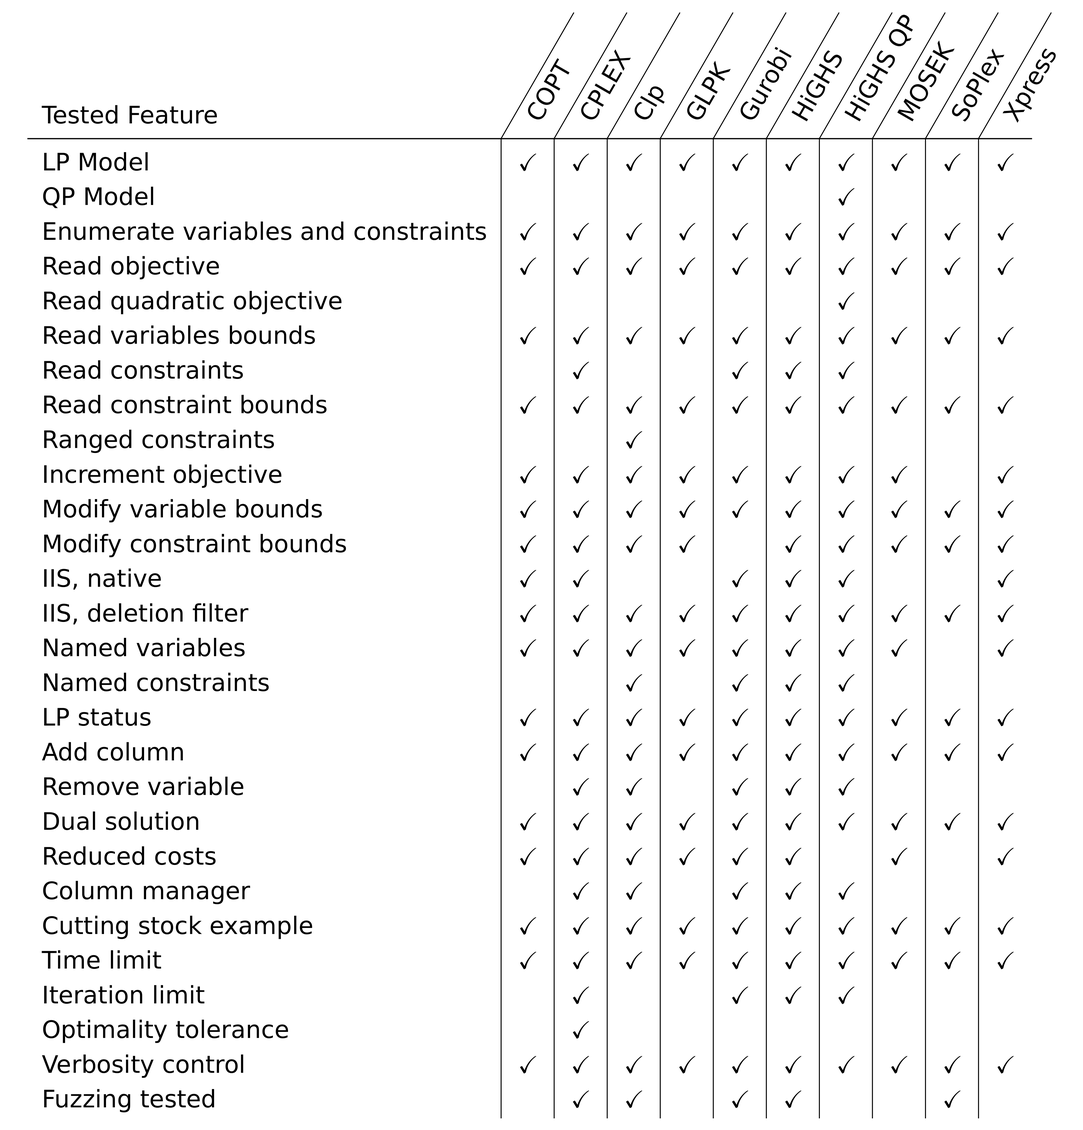
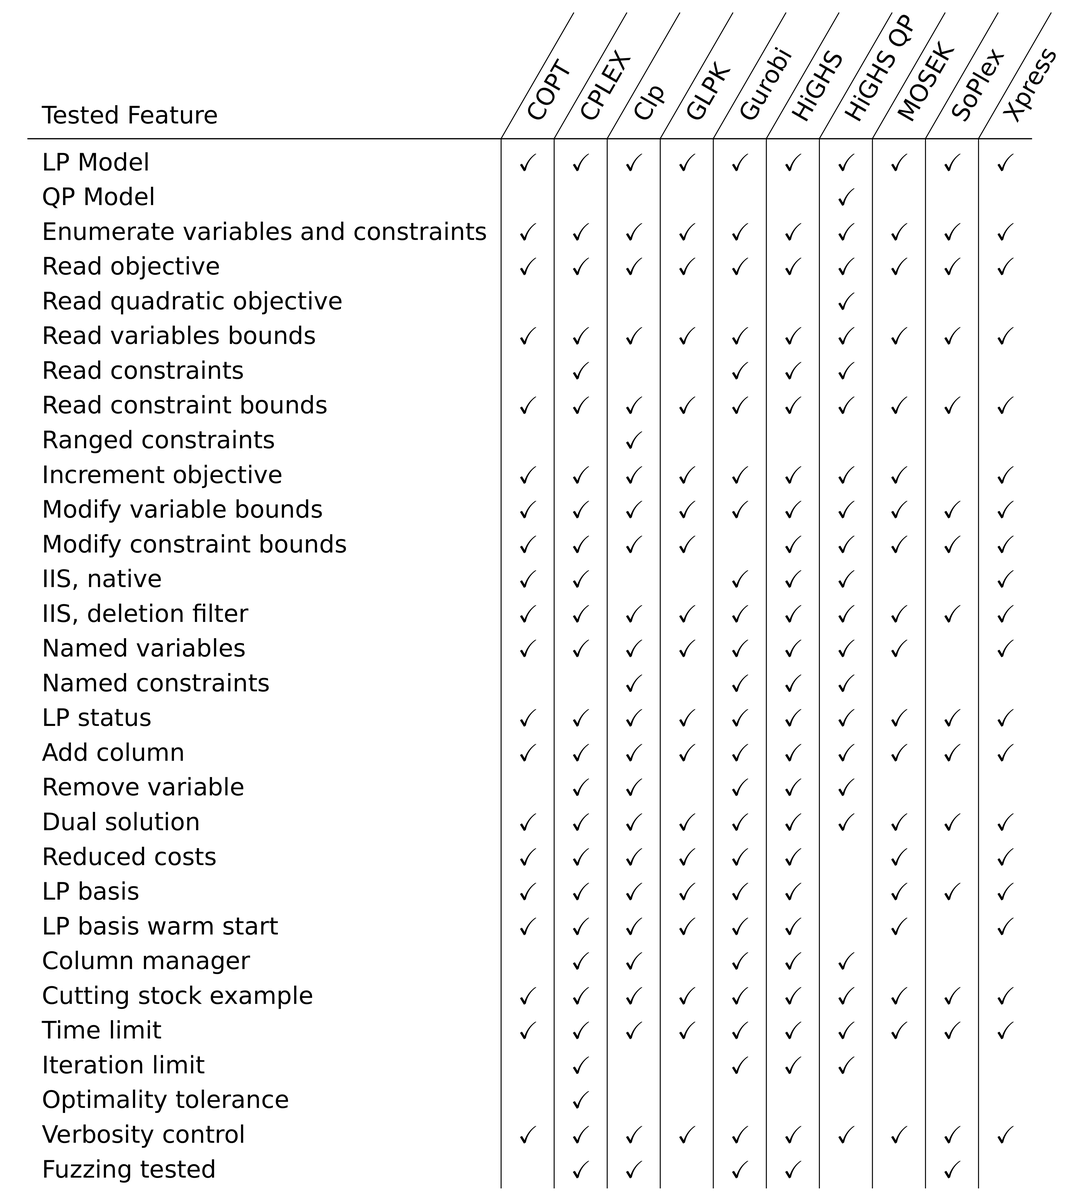
docs(basis): correct the basis page and regenerate the feature tables
Which is/is_a tests compile everywhere, what fixed and superbasic entities
read, what each backend does before a solve and after set_basis(), the
Gurobi wording on kept bases, CPLEX free rows and the SoPlex exceptions.

Changed region(s): [[0.0311, 0.0933, 0.4666, 0.9949], [0.4355, 0.0, 0.9954, 0.1244]]

diff --git a/docs/solving/basis.md b/docs/solving/basis.md
@@ -57,9 +57,9 @@ The plan makes 14 chairs and the 3 tables ordered, uses 2 hours of overtime and 
 
 The side of a row is the side of its activity, the value of its left-hand side: `wood`, whose `2 chairs + 4 tables + 2 desks` reaches 40, reads `nonbasic_at_upper_bound` on every backend. Several solvers name the side of a slack variable instead, which is the other side on some rows, or no side at all, and MIP++ translates their answer.
 
-Each backend reports the most specific tag its solver's answer gives. A fixed entity, a variable with equal bounds or an `==` row, reads `nonbasic_fixed` where the solver has a code for it, and otherwise the side its solver names, which follows the sign of its reduced cost or dual; both derive from `nonbasic_at_bound`. A free nonbasic variable reads `nonbasic_free` where the solver tells it apart, and `superbasic` where one code covers it and the variables stopped strictly inside their bounds, which only a run stopped before the optimum leaves. [Support by model](#support-by-model) lists which backend reports what.
+Each backend reports the most specific tag its solver's answer gives. A fixed entity, a variable with equal bounds or an `==` row, reads `nonbasic_fixed` where the solver has a code for it, or, for an `==` row of `gurobi_lp` and `cplex_lp`, where the row's sense says so, and otherwise the side its solver names, which follows the sign of its reduced cost or dual; both derive from `nonbasic_at_bound`. A free nonbasic variable reads `nonbasic_free` where the solver tells it apart, and `superbasic` where one code covers it and the entities strictly inside their bounds, which a run stopped before the optimum leaves, and on `mosek_lp` the certificate of an unbounded LP. [Support by model](#support-by-model) lists which backend reports what.
 
-So test a status with `is_a`, at the level your code cares about: `is_a<basis_status::nonbasic_at_bound>(s)` holds for every entity at a bound, fixed ones included, on every backend. `is_a` and `is` compile only for a tag the backend's variant lists or derives from: `basic`, `nonbasic`, `nonbasic_at_bound`, `nonbasic_at_lower_bound`, `nonbasic_at_upper_bound` and `superbasic` compile everywhere, while `nonbasic_fixed` and `nonbasic_free` compile only where the backend reports them. `describe`, above, visits the tag and tests it by derivation, so it compiles on every backend. Code that must know whether an entity is fixed compares its bounds. The types are `model_basis_t<M>` for the snapshot, and `model_variable_basis_status_t<M>` and `model_constraint_basis_status_t<M>` for the two statuses, which may differ.
+So test a status at the level your code cares about. `is<S>(s)` compiles only for a tag the status's variant lists, and `is_a<S>(s)` for a tag it lists or that one of its tags derives from. `is_a` on `basic`, `nonbasic`, `nonbasic_at_bound`, `nonbasic_at_lower_bound` and `nonbasic_at_upper_bound` compiles on every status of every backend, and `is_a<basis_status::nonbasic_at_bound>(s)` holds for every entity at a bound, fixed ones included. `is_a<basis_status::superbasic>` compiles on every column status, but not on the row statuses of `gurobi_lp` and `cplex_lp`, whose rows are never at no bound. `is` on `basic`, `nonbasic`, `nonbasic_at_lower_bound` and `nonbasic_at_upper_bound` compiles everywhere, while `is` and `is_a` on `nonbasic_fixed` or `nonbasic_free`, and `is` on `superbasic`, compile only where the status lists them. `describe`, above, visits the tag and tests it by derivation, so it compiles on every status of every backend: generic code over rows and columns alike does the same. Code that must know whether an entity is fixed compares its bounds. The types are `model_basis_t<M>` for the snapshot, and `model_variable_basis_status_t<M>` and `model_constraint_basis_status_t<M>` for the two statuses, which may differ.
 
 ## Starting a solve from a basis
 
@@ -80,7 +80,7 @@ profit:   89
 
 - **Another model.** A snapshot is keyed by handle, so it seeds a second model built in the same order, of the same backend or another one: `other.set_basis(model.get_basis())`. Models are move-only, so this is how a second model, built per thread or per node, starts where the first ended. Removals break the correspondence: a target that did not remove the same variables needs a basis of its own making, mapping its handles to the source's.
 - **An earlier basis.** After a dive that changed bounds, `set_basis(saved)` takes the solver back to where it was.
-- **A basis of your own making.** `set_basis` accepts any type whose `get_status(v)` and `get_status(c)` return a `std::variant` holding a `basis_status::basic` tag and a `basis_status::nonbasic` tag; tags of your own that derive from them write as the tag they derive from. A default-constructed `model_basis_t<M>` is the slack basis, every column nonbasic and every row basic, and `set_status(e, tag)` edits a snapshot, growing it for handles it does not cover: this is how you warm-start a model never solved.
+- **A basis of your own making.** `set_basis` accepts any type whose const member functions `get_status(v)` and `get_status(c)` return a `std::variant` holding a `basis_status::basic` tag and a `basis_status::nonbasic` tag; tags of your own that derive from them write as the tag they derive from. A default-constructed `model_basis_t<M>` is the slack basis, every column nonbasic and every row basic, and `set_status(e, tag)` edits a snapshot, growing it for handles it does not cover: this is how you warm-start a model never solved, here the workshop's, whose class is `Model`:
 
 ```cpp
 --8<-- "test/doc_snippets/basis.cpp:own-start"
@@ -92,13 +92,13 @@ A basis is never an error. Every solver snaps a side that the bounds do not have
 
 ## When a basis is available
 
-`get_basis()` is defined right after a `solve()` that ran a simplex method, before any other call that changes the model or what the solver holds: it then returns the basis that solve ended with. Where the solver holds none, it throws `mippp::solver_error`: before any solve, after presolve proved the model infeasible or unbounded, after a time limit that stopped the solve before the simplex method started, and after an interior-point run that skipped its crossover, which only native settings can ask for. Which of these each backend reports, and how, is in [Support by model](#support-by-model). A model without variables has one basis, every row basic, which `get_basis()` returns on every backend without a solve.
+`get_basis()` is defined right after a `solve()` that ran a simplex method, before any other call that changes the model or what the solver holds: it then returns the basis that solve ended with. Where the solver holds none, it throws `mippp::solver_error`: after presolve proved the model infeasible or unbounded, after a time limit that stopped the solve before the simplex method started, and after an interior-point run that skipped its crossover, which only native settings can ask for. Before any solve, `glpk_lp` and `soplex_lp`, and `copt_lp` on a model with constraints, return the solver's starting basis, every row basic, and the other backends throw. Which of these each backend reports, and how, is in [Support by model](#support-by-model). A model without variables has one basis, every row basic, which `get_basis()` returns on every backend without a solve.
 
 At any other time its result is unspecified: between a change of the model and the next `solve()`, between `set_basis()` and the next `solve()`, after a `solve()` that MIP++ answers without running the solver, as on a model whose bounds cross, and after `refine_lp_status()`, `compute_iis()` or `compute_iis_by_deletion`. Some backends then throw, others return the basis their next solve would start from.
 
 ## The status afterwards
 
-`set_basis()` leaves `get_status()` as it was: the status describes the last solve, as after any other change of the model, and only the next `solve()` replaces it. Gurobi, CPLEX and COPT discard their solution when a basis is written, so on `gurobi_lp`, `cplex_lp` and `copt_lp` the solution getters fail until the next `solve()`, while `get_status()` still reports the solve before.
+`set_basis()` leaves `get_status()` as it was: the status describes the last solve, as after any other change of the model, and only the next `solve()` replaces it. Gurobi, CPLEX and COPT discard their solution when a basis is written, so on `gurobi_lp`, `cplex_lp` and `copt_lp` the getters of the solution and the duals, `get_solution()` and `get_dual_solution()` among them, throw until the next `solve()`, and so does `get_solution_value()` but on `copt_lp`, whose objective value still reads the last solve's, while `get_status()` still reports the solve before.
 
 ## Support by model
 
@@ -107,7 +107,7 @@ At any other time its result is unspecified: between a change of the model and t
 | Model | `get_basis()` | `set_basis()` | Fixed entities read | No basis reported |
 | :--- | :---: | :---: | :--- | :--- |
 | `clp_lp` | ✓ | ✓ | `nonbasic_fixed` | before the first solve |
-| `copt_lp` | ✓ | ✓ | `nonbasic_fixed` | when COPT holds none, or one with the wrong number of basic entries, as after `compute_iis()` |
+| `copt_lp` | ✓ | ✓ | `nonbasic_fixed` | when COPT holds none, as before the first solve of a model without constraints, or one with the wrong number of basic entries, as after `compute_iis()` on an infeasible model |
 | `cplex_lp` | ✓ | ✓ | a side, `==` rows `nonbasic_fixed` | when CPLEX holds none |
 | `glpk_lp` | ✓ | ✓ | `nonbasic_fixed` | never: GLPK always holds a basis |
 | `gurobi_lp` | ✓ | ✓ | a side, `==` rows `nonbasic_fixed` | when Gurobi holds none, and after any change of the model |

diff --git a/docs/solvers/index.md b/docs/solvers/index.md
@@ -109,10 +109,11 @@ Notable current limitations (see the
     - `soplex_lp` reads a basis but cannot write one, since SoPlex's C interface has no setter. Before any solve, and after a solve that presolve decided, it returns a slack basis that SoPlex builds from the bounds, in which a fixed column reads at its lower bound. SoPlex releases before 7.0 lack the getters, and `get_basis()` then throws `mippp::feature_unavailable_error`.
     - `mosek_lp` solves an LP by the interior point, which cannot start from a basis: the `solve()` after `set_basis()` runs MOSEK's free simplex once, unless an optimizer was chosen through `native_api()`, and later solves return to the interior point. `get_basis()` reads MOSEK's basic solution even when `solve()` reported the interior one. After an unbounded solve, its `superbasic` entities describe MOSEK's certificate of unboundedness.
     - `glpk_lp` replaces a basis it cannot factorize by its standard basis, so the next solve starts cold, and does so too for a basis that marks basic a column in no constraint, which can make GLPK abort the process. GLPK ignores any basis on an LP whose constraints have no nonzero coefficient.
-    - Gurobi's row status names no side: `gurobi_lp` places a nonbasic row by its sense, and writes every nonbasic row at its right-hand side. `get_basis()` throws after any change of the model, since Gurobi drops its basis when it applies a change. A basis with the wrong number of basic entries, as after the removal of a basic column, is dropped too, and the next solve starts cold.
-    - `xpress_lp` throws after any change of the model as well, although Xpress keeps its basis and the next solve starts from it. Xpress's own routines describe a row by its slack, so a basis read through `native_api()` has every row on the other side.
-    - On `gurobi_lp`, `cplex_lp` and `copt_lp`, `set_basis()` discards the solver's solution: the solution getters throw until the next `solve()`, while `get_status()` still reports the last one. `cplex_lp`'s `refine_lp_status()` re-solves without an advanced start, and so ignores a written basis.
-    - On `copt_lp`, `compute_iis()` clears COPT's basis on an infeasible model, and writing a bound of a nonbasic variable resets its stored status from its bounds.
+    - Gurobi's row status names no side: `gurobi_lp` places a nonbasic row by its sense, and writes every nonbasic row at its right-hand side. `get_basis()` throws after any change of the model: Gurobi stops reporting its basis when it applies a change, although it keeps it and the next solve starts from it, except after the removal of a column that was basic, see [Column generation](../algorithms/column-generation.md#bases). A basis with the wrong number of basic entries, as one taken before such a removal, is dropped too, and the next solve starts cold.
+    - `xpress_lp` throws after any change of the model too, and Xpress, like Gurobi, keeps its basis and the next solve starts from it. Xpress's own routines describe a row by its slack, so a basis read through `native_api()` has every row on the other side.
+    - `cplex_lp` has no nonbasic code for a free row, whose two sides are infinite and which CPLEX stores as a `<=` row with an infinite right-hand side: `set_basis()` writes any nonbasic status of such a row at that infinite side, and CPLEX repairs it at the next solve, at the cost of a few iterations. After a solve, CPLEX reports a free row basic.
+    - On `gurobi_lp`, `cplex_lp` and `copt_lp`, `set_basis()` discards the solver's solution: the getters of the solution and the duals throw until the next `solve()`, and so does `get_solution_value()` but on `copt_lp`, whose objective value still reads the last solve's, while `get_status()` still reports the last one. `cplex_lp`'s `refine_lp_status()` re-solves without an advanced start, and so ignores a written basis.
+    - On `copt_lp`, `get_basis()` before any solve returns COPT's starting basis on a model with constraints, every row basic, and throws on a model without. `compute_iis()` clears COPT's basis on an infeasible model, and writing a bound of a nonbasic variable resets its stored status from its bounds.
 - **Ranged constraints** — `add_ranged_constraint` on Clp and Cbc only (`has_ranged_constraints`). On every backend but Gurobi (Cbc, Clp, COPT, CPLEX, GLPK, HiGHS, MOSEK, SCIP, SoPlex and Xpress), `has_modifiable_constraint_bounds` makes any row ranged by giving it two distinct finite sides. `has_readable_constraint_bounds` reads the sides back on every backend. On CPLEX and Xpress, sides that would cross throw `std::invalid_argument`, since a ranged row is stored as a side and a width. Gurobi's models have no modifiable row bounds, see [Special constraints](../modeling/special-constraints.md#ranged-constraints) for why.
 - **Indicator constraints** — Gurobi and CPLEX only (`has_indicator_constraints`). The call returns no handle, so an indicator constraint cannot be read back or edited once added ([details](../modeling/special-constraints.md)). Both IIS paths keep indicator constraints in the background: never members, and the members an answer names conflict against them.
 - **Deletion filter** — `compute_iis_by_deletion`, one of the two ways to [diagnose an infeasible model](../solving/infeasibility.md), runs on every model class. On `gurobi_lp` and `gurobi_milp`, which have no row-bound setters, it writes a row through its sense and its right-hand side. Every model class has a time limit, so the filter runs each trial under the time that remains before the deadline of `iis_limits`. A trial can still overrun the deadline on `glpk_milp` and `cbc_milp`, and stop before it on `clp_lp` and `soplex_lp`, whose limit counts CPU time, and on `cbc_milp` with Cbc 2.10, which takes the CPU time of its preprocessing off the limit beyond the 50 ms margin the model gives it, see [Time limits](../algorithms/deletion-filter.md#time-limits). HiGHS silently repairs, in the model itself, a variable bound or row side that crosses the other by less than its primal feasibility tolerance, and solves the model, while the filter, whose test for crossed sides is exact, reports such a pair as an IIS. A registered candidate-solution callback runs in every trial: on `cplex_milp` and `copt_milp`, one that rejects candidates can keep a trial running until a limit stops it, and `cplex_milp` throws on a model whose columns are all continuous, see [Callbacks](../algorithms/deletion-filter.md#callbacks).

diff --git a/docs/getting-started/index.md b/docs/getting-started/index.md
@@ -87,7 +87,7 @@ The design decisions above define a niche, and the honest answer to "should I us
 - you need **cross-solver experiments** — the same study on Gurobi, CPLEX, and an open solver — without maintaining per-solver code paths;
 - you write **build-bound iterative methods in C++** — column generation, cutting planes — and want the model-handling overhead out of your measurements.
 
-**Know what is not built yet.** User-cut callbacks are specified as a concept but not yet implemented by any backend, and heuristic-solution injection is still on the [roadmap](https://github.com/fhamonic/mippp#roadmap) — and those are features the build-bound, re-solve-heavy researcher needs: cutting-plane research needs user cuts, not just lazy constraints. LP bases are there: `get_basis()` and `set_basis()` on the LP models, see [Bases and warm starts](../solving/basis.md). Solver-specific parameters (Gurobi's `MIPFocus`, CPLEX emphasis settings) have no uniform interface either, though they are reachable: every model satisfies `has_native_handles`, so `native_model()` and `native_api()` let you call the solver's own C API directly — see [Feature support](../solvers/index.md#feature-support). If your work depends on the unimplemented features above today, a mature layer serves you better until they land.
+**Know what is not built yet.** User-cut callbacks are specified as a concept but not yet implemented by any backend, and heuristic-solution injection is still on the [roadmap](https://github.com/fhamonic/mippp#roadmap) — and those are features the build-bound, re-solve-heavy researcher needs: cutting-plane research needs user cuts, not just lazy constraints. LP bases are there: `get_basis()` and `set_basis()` on the LP models, read-only on `soplex_lp`, see [Bases and warm starts](../solving/basis.md). Solver-specific parameters (Gurobi's `MIPFocus`, CPLEX emphasis settings) have no uniform interface either, though they are reachable: every model satisfies `has_native_handles`, so `native_model()` and `native_api()` let you call the solver's own C API directly — see [Feature support](../solvers/index.md#feature-support). If your work depends on the unimplemented features above today, a mature layer serves you better until they land.
 
 **Stay with the incumbents if** you model comfortably in Python or Julia (gurobipy and JuMP are mature, fully featured, and fast enough that build time rarely bottlenecks a one-shot solve), if your work is heavy solver-parameter tuning, or if it is CP/scheduling (OR-Tools CP-SAT). MIP++ requires a C++23 compiler (GCC 14 and 15, Clang 18, AppleClang 21, MinGW and MSVC 2022 are the ones CI tests) and assumes fluency with modern C++ — ranges, concepts, and the template errors that come with them. And it is a young, single-maintainer project: pin a version before building a dissertation's worth of code on it.
 

diff --git a/docs/reference/concepts.md b/docs/reference/concepts.md
@@ -124,8 +124,8 @@ set is a limit you can detect.
 | `has_dual_solution` | `get_dual_solution()`, indexed by constraint handles. |
 | `has_reduced_costs` | `get_reduced_costs()`, indexed by variable handles. |
 | `has_lp_basis` | `get_basis()`, a snapshot by value, `model_basis_t<M>`, whose `get_status(v)` / `get_status(c)` return a variant over the tags of namespace `basis_status`, `model_variable_basis_status_t<M>` and `model_constraint_basis_status_t<M>`: the most specific tag the solver gives, a row on the side of its activity. Defined right after a `solve()` that ran a simplex method, throws `mippp::solver_error` where the solver holds no basis, unspecified at other times. Satisfied by the `*_lp` classes, never by a `*_milp` class nor `highs_qp`. See [Bases and warm starts](../solving/basis.md). |
-| `has_modifiable_lp_basis` | `has_lp_basis`, and the snapshot is edited with `set_status(e, tag)` for variables and constraints, which grows it for handles it does not cover and stores the most specific tag its status lists. A default-constructed `model_basis_t<M>` is the slack basis. |
-| `has_lp_basis_warm_start` | `has_lp_basis`, plus `set_basis(b)`, from which the next `solve()` starts, for any basis `b` whose `get_status(v)` / `get_status(c)` return a variant over tags deriving from `basis_status::basic` and `basis_status::nonbasic`: the model's own snapshot, another model's, or a type of your own. A snapshot reads a handle created after it as nonbasic for a column and basic for a row, which keeps the basis square. `get_status()` keeps reporting the last solve. Satisfied by every `*_lp` class but `soplex_lp`. |
+| `has_modifiable_lp_basis` | `has_lp_basis`, and the snapshot is edited with `set_status(e, tag)` for variables and constraints, which grows it for handles it does not cover and stores the most specific tag its status lists. `model_basis_t<M>` is default-constructible, and a default-constructed one is the slack basis. |
+| `has_lp_basis_warm_start` | `has_lp_basis`, plus `set_basis(b)`, from which the next `solve()` starts, for any basis `b` whose const `get_status(v)` / `get_status(c)` return a variant over tags deriving from `basis_status::basic` and `basis_status::nonbasic`: the model's own snapshot, another model's, or a type of your own. A snapshot reads a handle created after it as nonbasic for a column and basic for a row, which keeps the basis square. `get_status()` keeps reporting the last solve. Satisfied by every `*_lp` class but `soplex_lp`. |
 
 ## Infeasibility analysis
 

diff --git a/docs/algorithms/column-generation.md b/docs/algorithms/column-generation.md
@@ -90,13 +90,13 @@ The `column_manager` test suite ([`test/test_suites/column_manager.hpp`](https:/
 
 ## Bases
 
-A master grown in place usually re-solves from the basis the solver kept, and the columns added since enter it nonbasic. On the LP models, `get_basis()` also tells which master columns are basic, through `model_variable_basis_status_t<M>` and the `variable_status` property that `master_refreshed` updates, and `set_basis(b)` starts a solve from a basis of your choice, see [Bases and warm starts](../solving/basis.md):
+A master grown in place usually re-solves from the basis the solver kept, and the columns added since enter it nonbasic. On the LP models, `get_basis()` also tells which master columns are basic, through `model_variable_basis_status_t<M>` and the `variable_status` property that `master_refreshed` updates, and `set_basis(b)`, on every LP model but `soplex_lp`, starts a solve from a basis of your choice, see [Bases and warm starts](../solving/basis.md):
 
 - A master column reads its status from the last `master_refreshed`; until then it holds bare `basis_status::nonbasic`, the status of a column the basis does not cover, so a predicate that classifies fresh columns tests `!is<basis_status::basic>(s)`.
 - When `manage_columns` evicts columns, take the basis after `solve()` and before `manage_columns`, and write it with `set_basis` after it: a column activated in the same call may reuse the id of a column just evicted, and then reads that column's entry, nonbasic since the eviction strategies evict nonbasic columns only, at an optimum.
-- On Gurobi, `remove_variable` discards the basis Gurobi keeps, and an eviction then re-solves cold unless the basis is written back. A basis taken before a basic column was removed is one basic entity short, and Gurobi discards it too.
+- On Gurobi, removing a column that was basic discards the basis Gurobi keeps, and the next solve starts cold. A basis taken before that removal is one basic entity short, and Gurobi discards it too: the eviction strategies evict nonbasic columns only, at an optimum.
 
-Variable reduced costs (`get_reduced_costs`, concept `has_reduced_costs`) are available on the LP backends, for pricing schemes that reason on the master's variables.
+Variable reduced costs (`get_reduced_costs`, concept `has_reduced_costs`) are available on every LP backend but `soplex_lp`, for pricing schemes that reason on the master's variables.
 
 ## Next
 

diff --git a/docs/solving/updates.md b/docs/solving/updates.md
@@ -95,7 +95,7 @@ model.add_mip_start(std::views::transform(items, [&](int i) {
 
 Backends: Cbc, COPT, CPLEX, Gurobi, HiGHS, MOSEK, Xpress. This is the usual way to feed a constructive heuristic's solution into an exact run, and to make a "warm" second solve of a perturbed instance cheap.
 
-For LPs, a re-solve of the model changed in place usually starts from the basis the solver kept, and `set_basis(b)` starts it from a basis of your choice, another model's or an earlier one, see [Bases and warm starts](basis.md).
+For LPs, a re-solve of the model changed in place usually starts from the basis the solver kept, and `set_basis(b)`, on every LP model but `soplex_lp`, starts it from a basis of your choice, another model's or an earlier one, see [Bases and warm starts](basis.md).
 
 ## A benchmark loop
 

diff --git a/docs/solving/solutions.md b/docs/solving/solutions.md
@@ -82,7 +82,7 @@ They are the natural companion of duals for pricing schemes that reason on the m
 
 ## Bases
 
-On the LP models, `get_basis()` returns the basis an LP solve ended with, which variables and rows are basic and at which bound the others stand, and `set_basis(b)` starts the next solve from a basis: see [Bases and warm starts](basis.md).
+On the LP models, `get_basis()` returns the basis an LP solve ended with, which variables and rows are basic and at which bound the others stand, and `set_basis(b)`, on every LP model but `soplex_lp`, starts the next solve from a basis: see [Bases and warm starts](basis.md).
 
 ## Next
 
